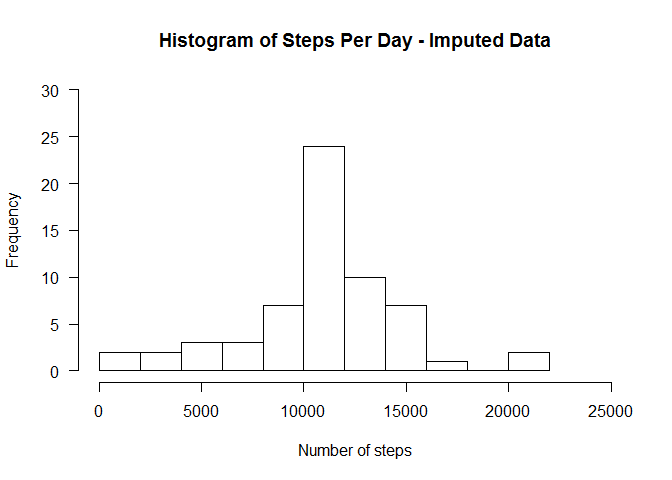
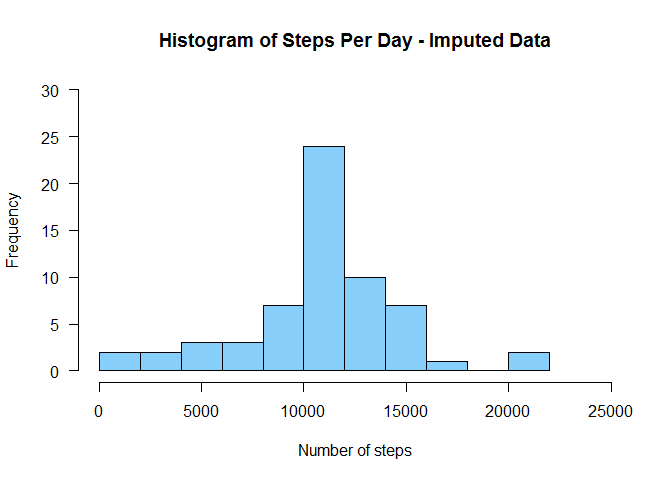
Updated to add color to histograms.

Changed region(s): [[0.125, 0.2812, 0.7188, 0.7812], [0.75, 0.7188, 0.8125, 0.7812]]

diff --git a/PA1_template.html b/PA1_template.html
@@ -84,10 +84,10 @@ stepsPerDay &lt;- by(activityData.cleaned$steps, activityData.cleaned$date, sum)
 
 # Plot the histogram of the data
 hist(stepsPerDay, 15, las=1, 
-     xlim=c(0,25000), ylim=c(0,30),
+     xlim=c(0,25000), ylim=c(0,30), col=&quot;lightskyblue&quot;,
      main='Histogram of Steps Per Day',
      xlab='Number of steps per day')</code></pre>
[2 lines of base64/hex data omitted]
 <p><strong>Calculate and report the mean and median total number of steps taken per day.</strong></p>
 <p>The mean total steps per day is 10,766.19 steps. The median total steps per day is 10,765 steps.</p>
 </div>
@@ -140,10 +140,10 @@ stepsPerDayImputed &lt;- by(activityData.raw$steps, activityData.raw$date, sum)<
 <p><strong>4. Make a histogram of the total number of steps taken each day and Calculate and report the mean and median total number of steps taken per day.</strong></p>
 <pre class="r"><code># Plot the histogram with imputed data
 hist(stepsPerDayImputed, 15, las=1, 
-     xlim=c(0,25000), ylim=c(0,30),
+     xlim=c(0,25000), ylim=c(0,30), col=&quot;lightskyblue&quot;,
      main='Histogram of Steps Per Day - Imputed Data',
      xlab='Number of steps')</code></pre>
[2 lines of base64/hex data omitted]
 <pre class="r"><code># Calculate mean &amp; median values for comparison of the raw &amp; imputed data sets
 dfStats &lt;- data.frame(Mean=c(mean(stepsPerDay), mean(stepsPerDayImputed)), 
            Median=c(median(stepsPerDay), median(stepsPerDayImputed)), 

diff --git a/PA1_template.md b/PA1_template.md
@@ -28,7 +28,7 @@ stepsPerDay <- by(activityData.cleaned$steps, activityData.cleaned$date, sum)
 
 # Plot the histogram of the data
 hist(stepsPerDay, 15, las=1, 
-     xlim=c(0,25000), ylim=c(0,30),
+     xlim=c(0,25000), ylim=c(0,30), col="lightskyblue",
      main='Histogram of Steps Per Day',
      xlab='Number of steps per day')
 ```
@@ -127,7 +127,7 @@ and report the mean and median total number of steps taken per day.**
 ```r
 # Plot the histogram with imputed data
 hist(stepsPerDayImputed, 15, las=1, 
-     xlim=c(0,25000), ylim=c(0,30),
+     xlim=c(0,25000), ylim=c(0,30), col="lightskyblue",
      main='Histogram of Steps Per Day - Imputed Data',
      xlab='Number of steps')
 ```
